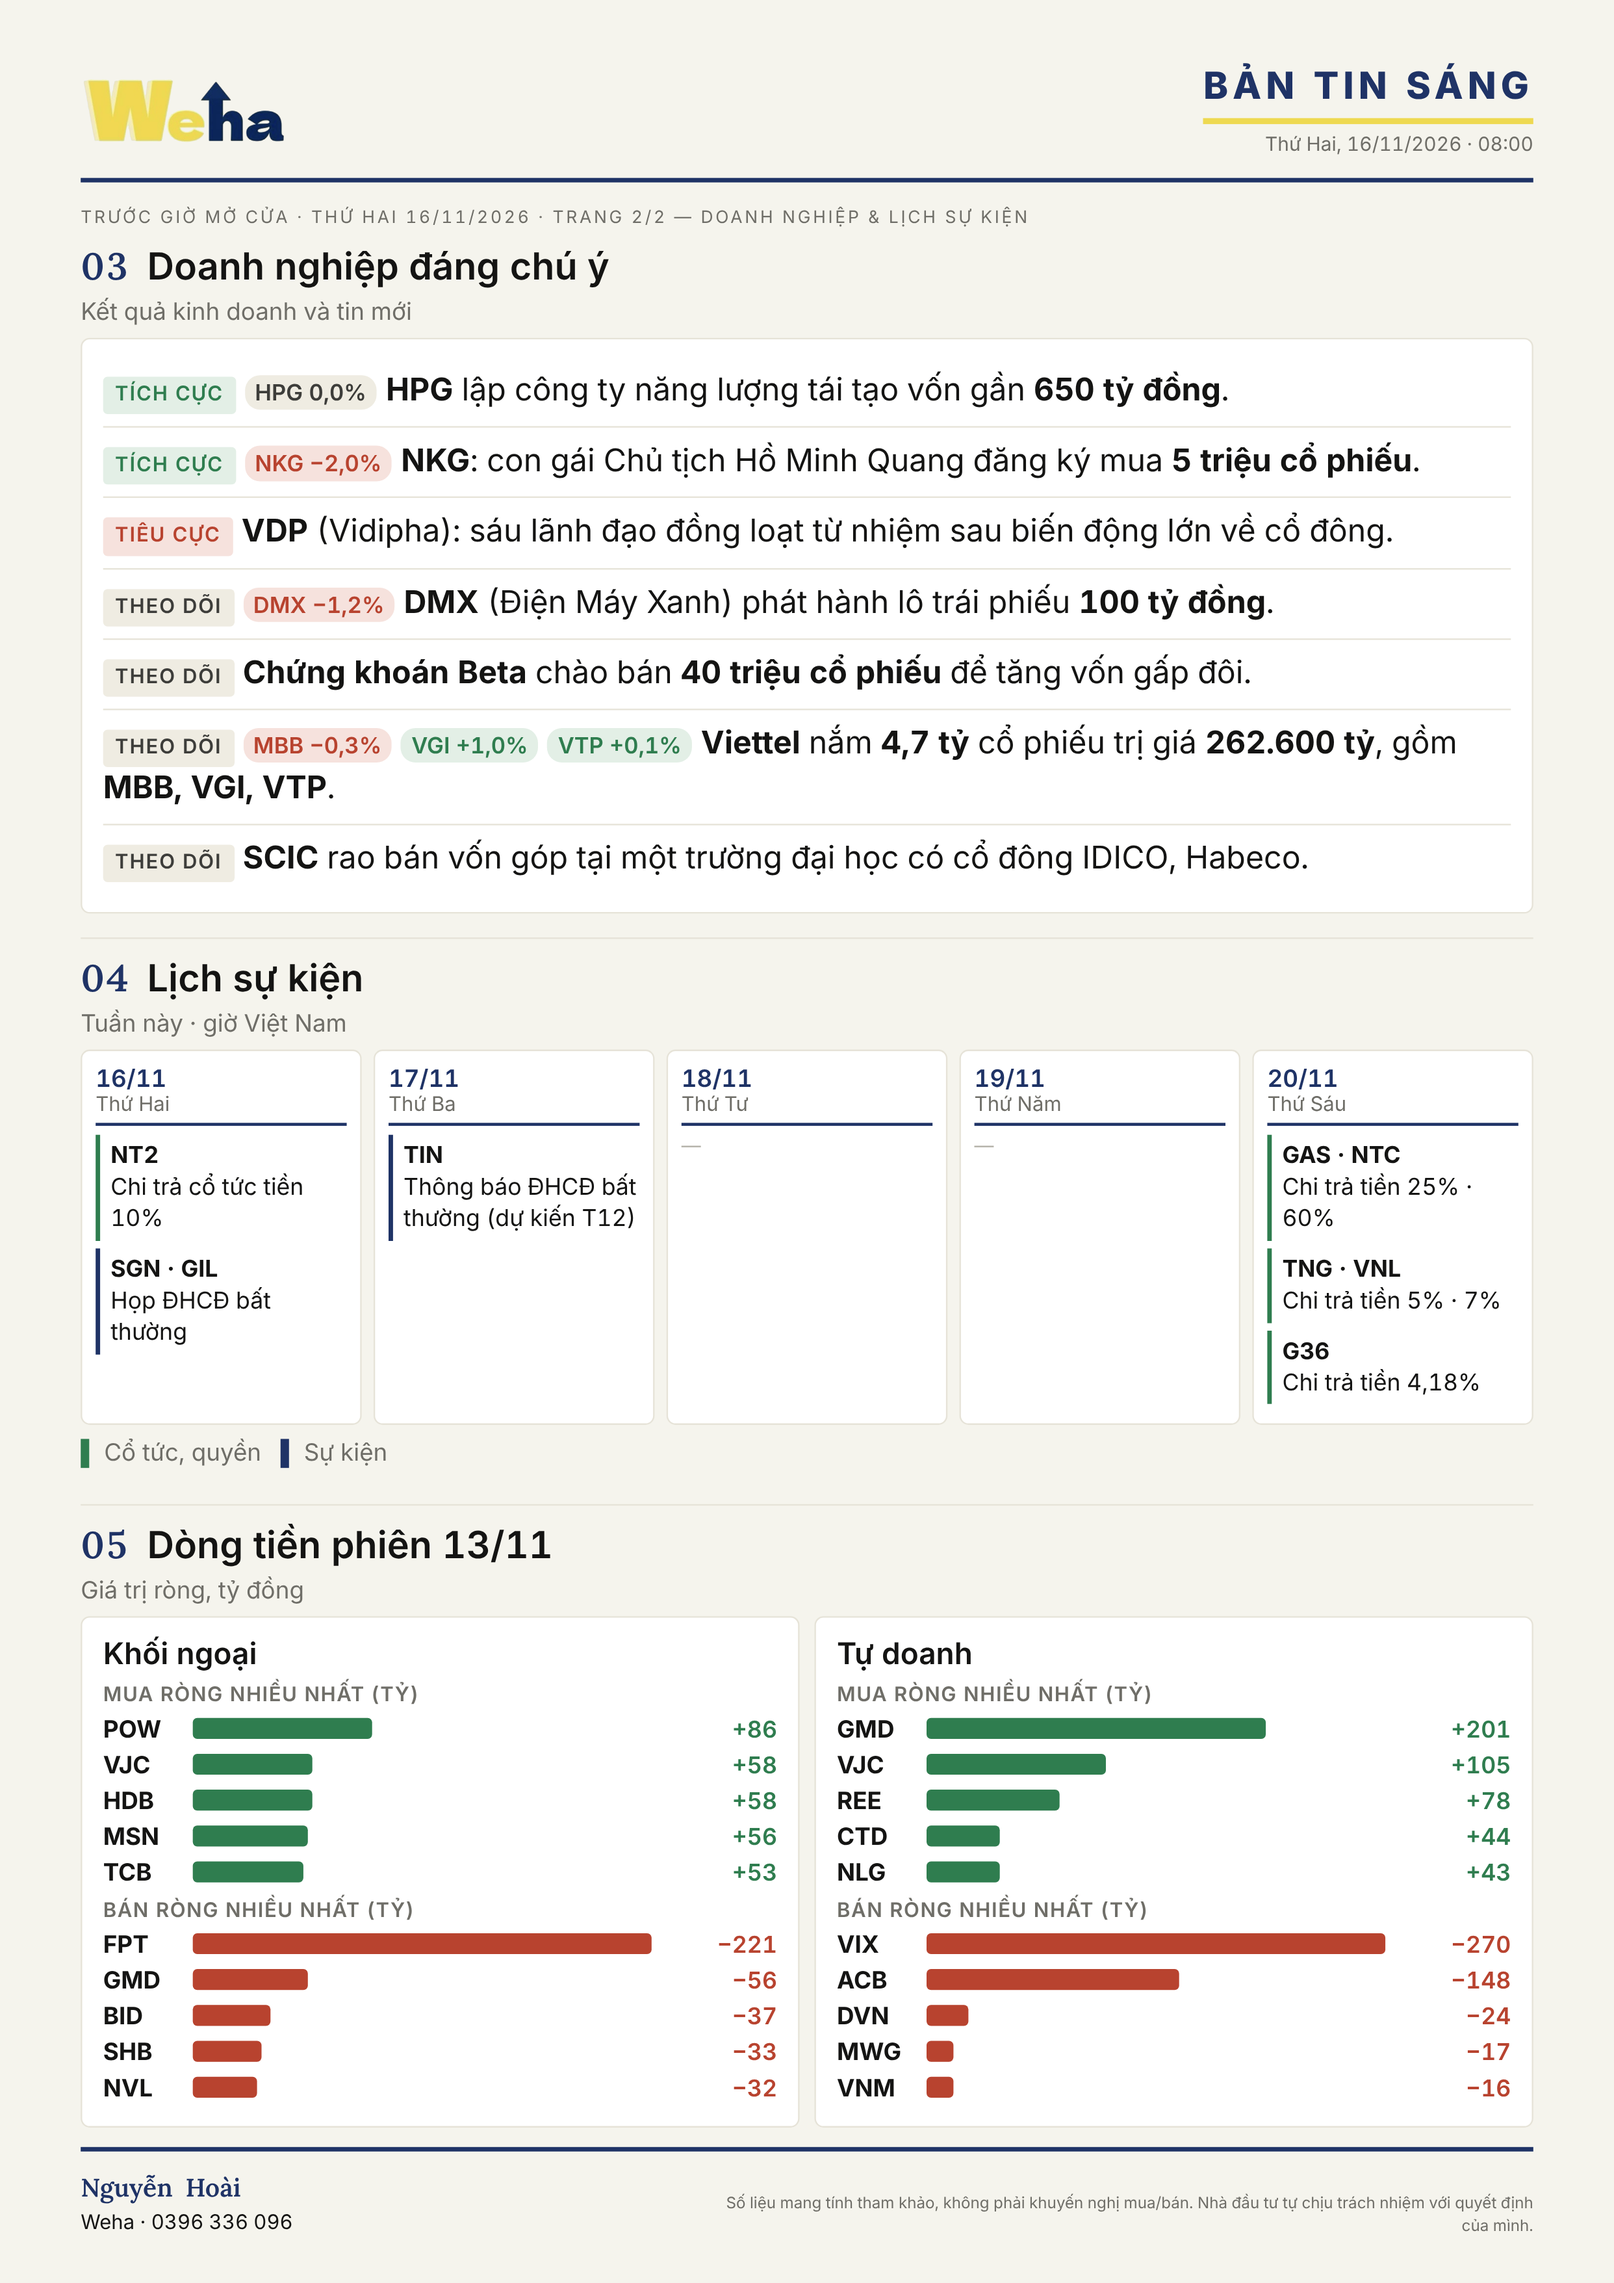
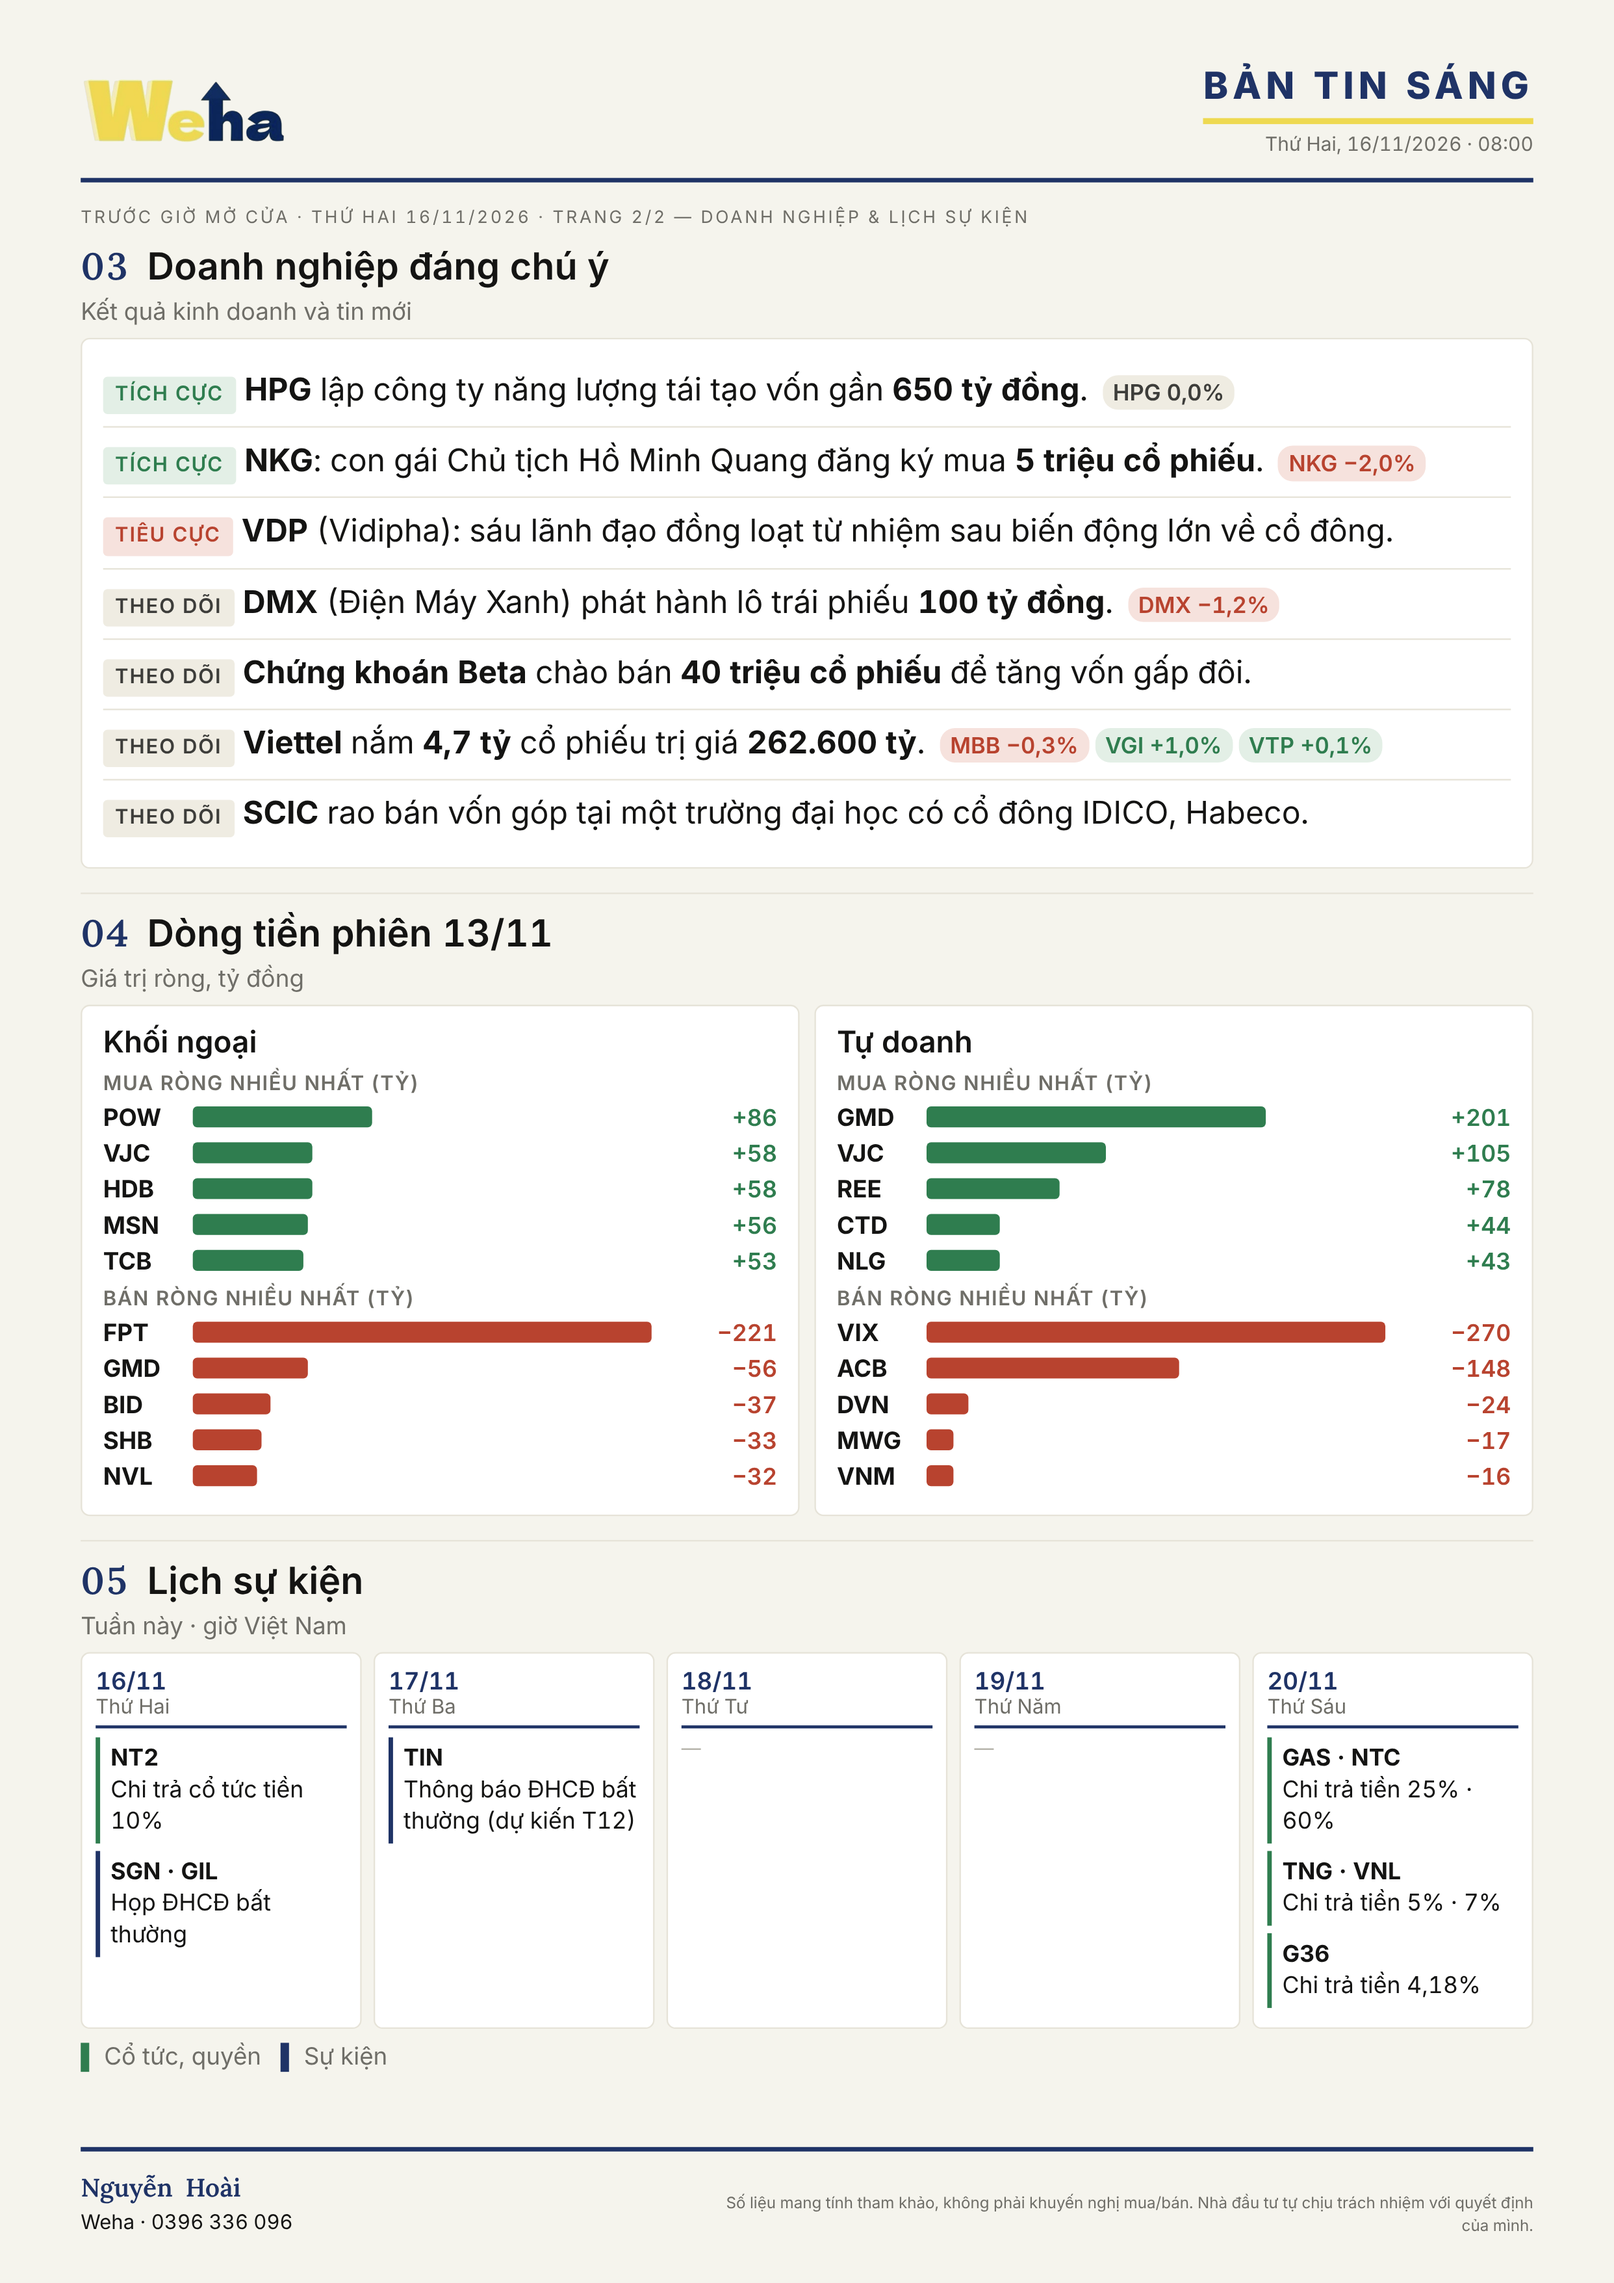
Bản tin sáng: chip giá đặt sau tin, lịch sự kiện xuống cuối trang 2
Claude-Session: https://claude.ai/code/session_01PnGQZ9zkvgVJ88mD6d3FrE

diff --git a/scripts/weha_sang.py b/scripts/weha_sang.py
@@ -62,7 +62,7 @@ CSS_M = """
 .ev td:nth-child(2){font-weight:600;white-space:nowrap}
 .strip{display:grid;grid-template-columns:repeat(4,1fr);gap:10px;margin-top:10px}
 .page .grid{gap:10px}
-.chip{display:inline-block;font-size:15px;font-weight:600;padding:1px 7px;border-radius:10px;margin-right:6px;background:#EFECE2;color:#3D3D3A;white-space:nowrap}
+.chip{display:inline-block;font-size:15px;font-weight:600;padding:1px 7px;border-radius:10px;margin-left:4px;background:#EFECE2;color:#3D3D3A;white-space:nowrap}
 .chip.pos{background:#E3EFE6;color:#2F7D4F} .chip.neg{background:#F6E2DD;color:#B8432F}
 .sunb{background:#EED951;color:#1F3366;font-weight:800;font-size:25px;letter-spacing:.14em;padding:7px 18px;border-radius:6px}
 .ed b.bs{display:block;width:fit-content;margin-left:auto;font-size:25px;font-weight:800;letter-spacing:.12em;color:#1F3366;padding-bottom:3px;border-bottom:4px solid #EED951;margin-bottom:5px}
@@ -113,7 +113,7 @@ def boldnum(t):
 
 def news(items):
     m = {"+": ("tg", "Tích cực"), "-": ("tr", "Tiêu cực"), "o": ("tn", "Theo dõi")}
-    return "".join(f'<p><span class="tag {m[i["s"]][0]}">{m[i["s"]][1]}</span>{chips(i.get("chips", []))}{boldnum(rich(i["text"]))}</p>' for i in items)
+    return "".join(f'<p><span class="tag {m[i["s"]][0]}">{m[i["s"]][1]}</span>{boldnum(rich(i["text"]))} {chips(i.get("chips", []))}</p>' for i in items)
 
 def hero(d):
     h = d.get("hero")
@@ -148,7 +148,7 @@ def flow_card(title, f):
 def flows(d):
     f = d.get("flows")
     if not f: return ""
-    return (f'<h2><span class="no">05</span> Dòng tiền phiên {esc(f.get("date",""))}</h2><p class="sub">Giá trị ròng, tỷ đồng</p>'
+    return (f'<h2><span class="no">04</span> Dòng tiền phiên {esc(f.get("date",""))}</h2><p class="sub">Giá trị ròng, tỷ đồng</p>'
             f'<div class="grid g2">{flow_card("Khối ngoại", f["foreign"])}{flow_card("Tự doanh", f["prop"])}</div>')
 
 def table(rows):
@@ -188,10 +188,10 @@ def page2(d):
 <h2 style="margin-top:6px;border-top:0;padding-top:0"><span class="no">03</span> Doanh nghiệp đáng chú ý</h2>
 <p class="sub">Kết quả kinh doanh và tin mới</p>
 <div class="card list">{news(d["company_news"])}</div>
-<h2><span class="no">04</span> Lịch sự kiện</h2>
+{flows(d)}
+<h2><span class="no">05</span> Lịch sự kiện</h2>
 <p class="sub">Tuần này · giờ Việt Nam</p>
-{week(d)}
-{flows(d)}"""
+{week(d)}"""
 
 async def render(d, out):
     from playwright.async_api import async_playwright
